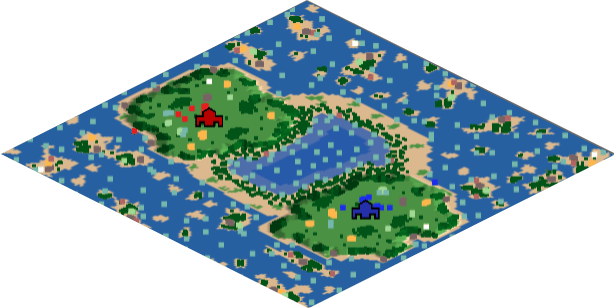
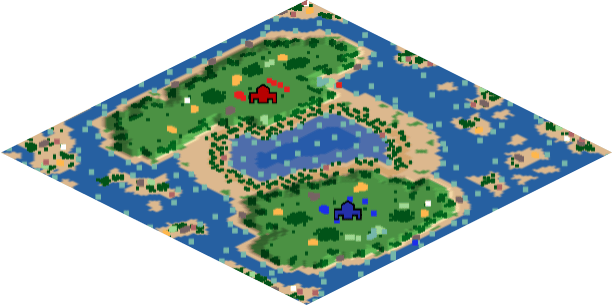
Update map images

diff --git a/ttl5/index.html b/ttl5/index.html
@@ -1347,6 +1347,11 @@
 
 
                 <ul>
+                    <li>2025-12-214- v1.2
+                        <ul>
+                            <li>Updated map images</li>
+                        </ul>
+                    </li>
                     <li>2025-12-21 - v1.1
                         <ul>
                             <li>Updated map draft urls to fix wrong map images for Dzimbabwe</li>
